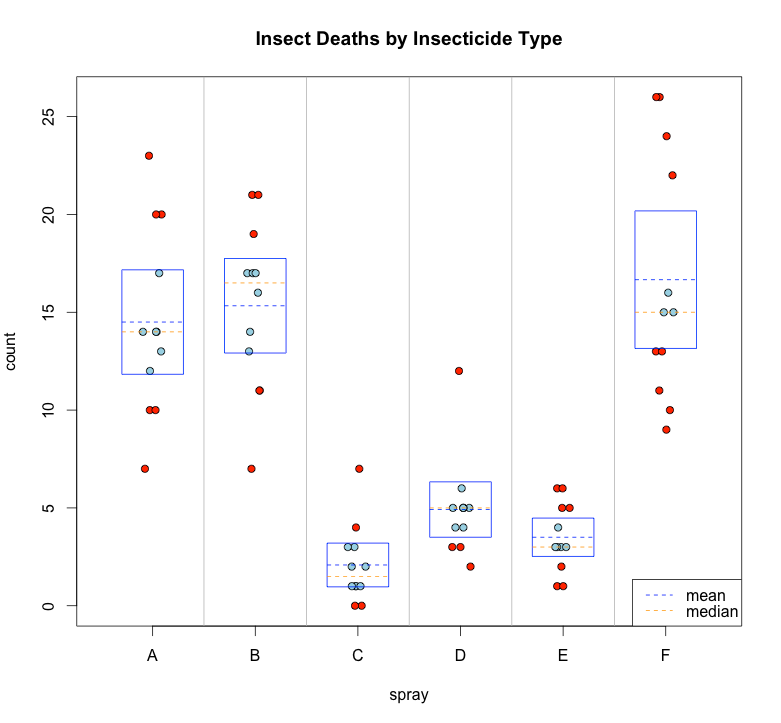
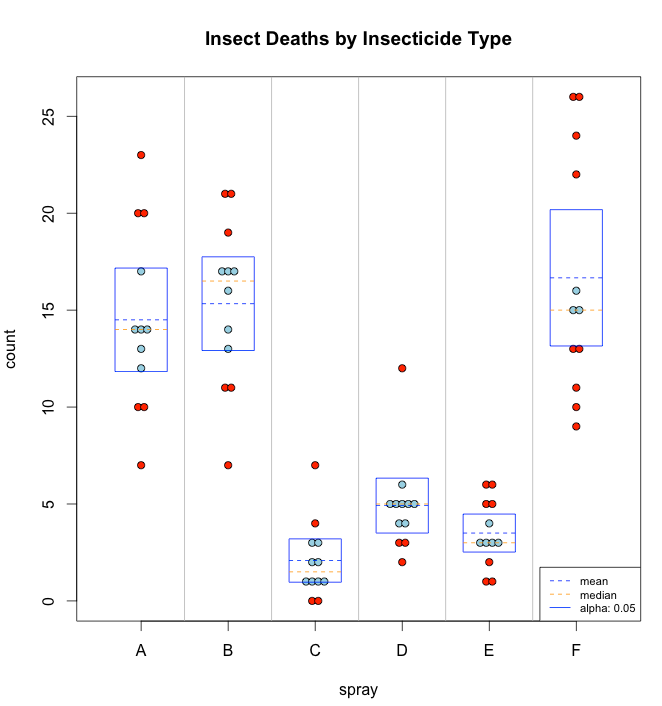
Added better jitter

diff --git a/README.md b/README.md
@@ -9,7 +9,8 @@ dotchartdf
 
 **Usage**
 
-`dotchartdf(data, xvar, yvar, title, alpha=0.05, log=FALSE)`
+	dotchartdf(data, xvar, yvar, title, alpha=0.05, dividers=TRUE,
+	           log=FALSE, dotspacing=0.07, legend=TRUE)
 
 
 **Description**
@@ -19,9 +20,13 @@ Creates a dotchart from a dataframe.
 `xvar` is the name of the dataframe column that will be used as the factor.  
 `yvar` is the name of the dataframe column that will be plotted.  
 `title` will be used as the title of the plot.  
-`alpha` sets the confidence interval. The default value is 0.05.  
+`alpha` sets the confidence interval. The default value is 0.05. If alpha is set to 0,
+	no confidence intervals or mean/median lines will be drawn.  
+`dividers` is a flag that will draw vertical dividers between factors if set to TRUE. Default is TRUE. 
 `log` is a flag that will take the log of the yvar values if set to TRUE. Default is FALSE.  
-
+`dotspacing` sets the horizontal spacing between dots with the same value in a factor.
+	Setting dotspacing is useful when there are lots of dots or very few factors.  
+`legend` is a flag that will draw a legend on the plot if set to TRUE. Default is TRUE.
 
 **Sample usage**
 
@@ -31,15 +36,17 @@ Creates a dotchart from a dataframe.
 
 	data(airquality)
 	dotchartdf(airquality, "Month", "Temp", "Temperature by Month")
-	dotchartdf(airquality, "Month", "Ozone", "Ozone by Month", 0.01, log=TRUE)
+
+	# Take the log of the Ozone values to try to get closer to a normal distribution
+	dotchartdf(airquality, "Month", "Ozone", "Ozone by Month", alpha=0.01, log=TRUE)
 
 	data(iris)
-	dotchartdf(iris, "Species", "Sepal.Length", "Sepal Length by Species", 0.05)
+	dotchartdf(iris, "Species", "Sepal.Length", "Sepal Length by Species", dotspacing=0.04)
 
 	# Not the greatest dataset to use, but a simple example of multiple dotcharts
 	par(mfrow=c(2,2))
 	for (param in c("Sepal.Length", "Sepal.Width", "Petal.Length", "Petal.Width")) {
-		dotchartdf(iris, "Species", param, paste(param,"by Species"), 0.05)  
+		dotchartdf(iris, "Species", param, paste(param,"by Species"), dotspacing=0.04, legend=FALSE)  
 	}
 	par(mfrow=c(1,1))
 
@@ -55,8 +62,7 @@ Jeff Buck.
 
 dotchartdf is based on sample code by [Brian Caffo](http://www.bcaffo.com) from his excellent 
 [Mathematical Biostatistics Boot Camp](https://www.coursera.org/course/biostats) course.
-Highly recommended.
-
+Highly recommended. Damn the mosquitos.
 
 
 
